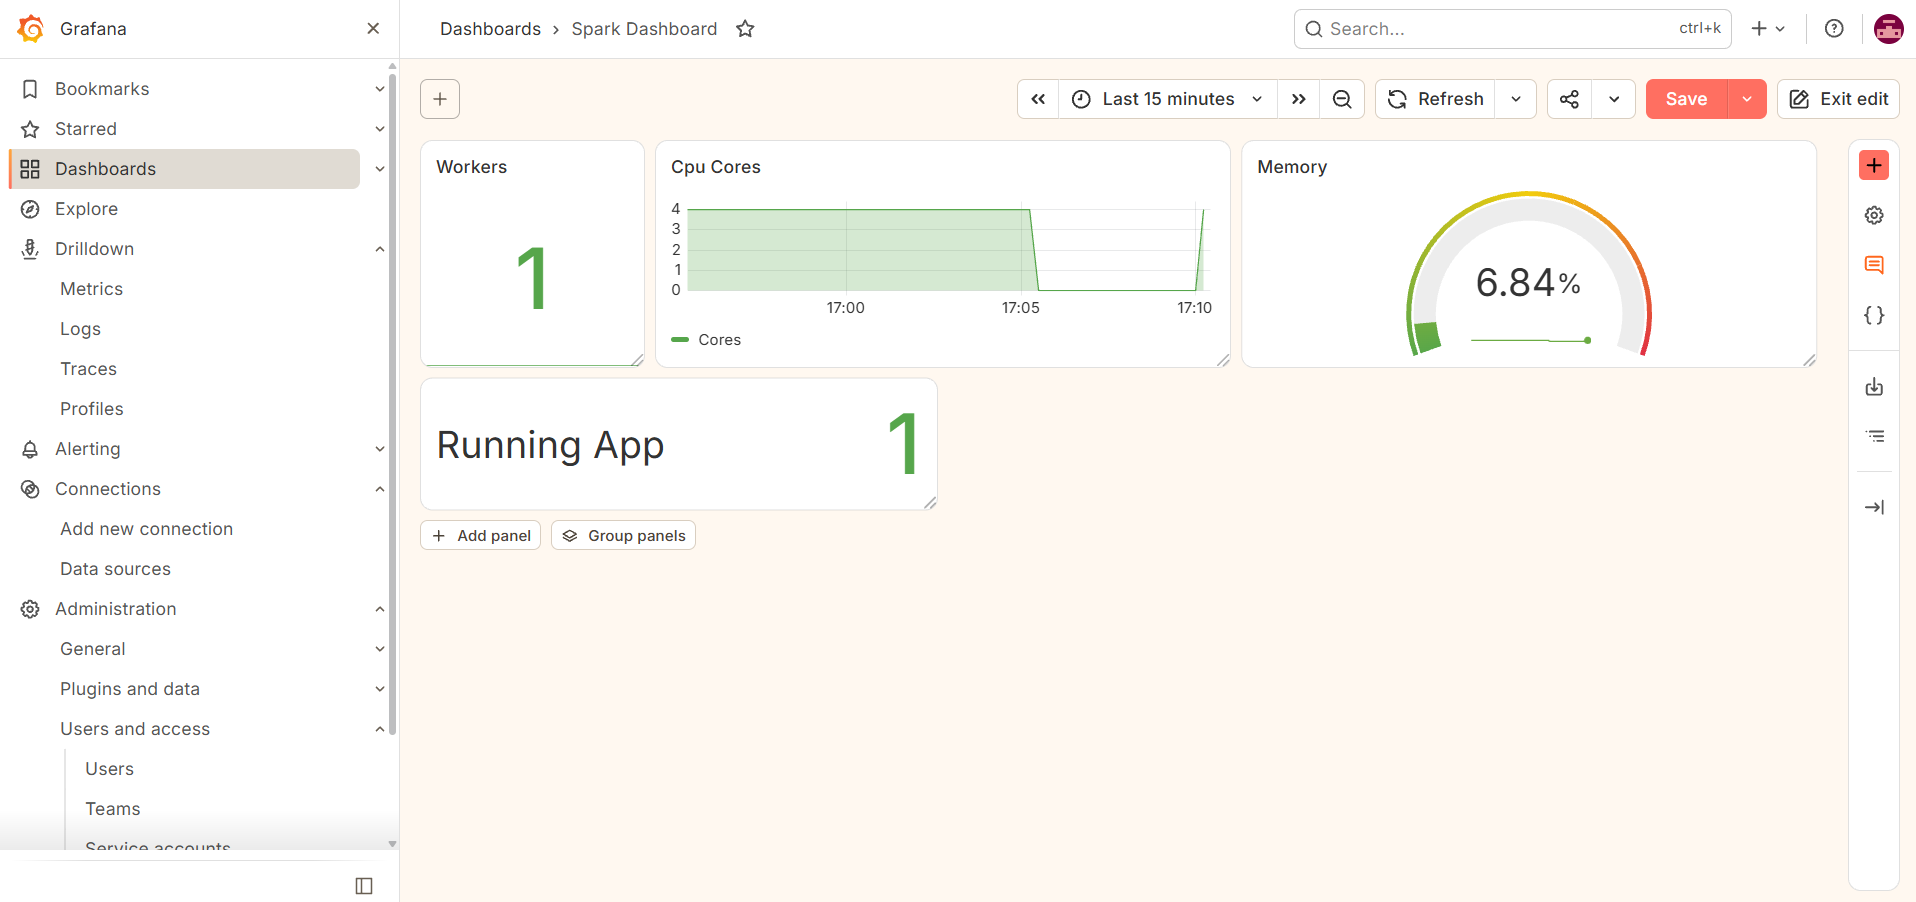
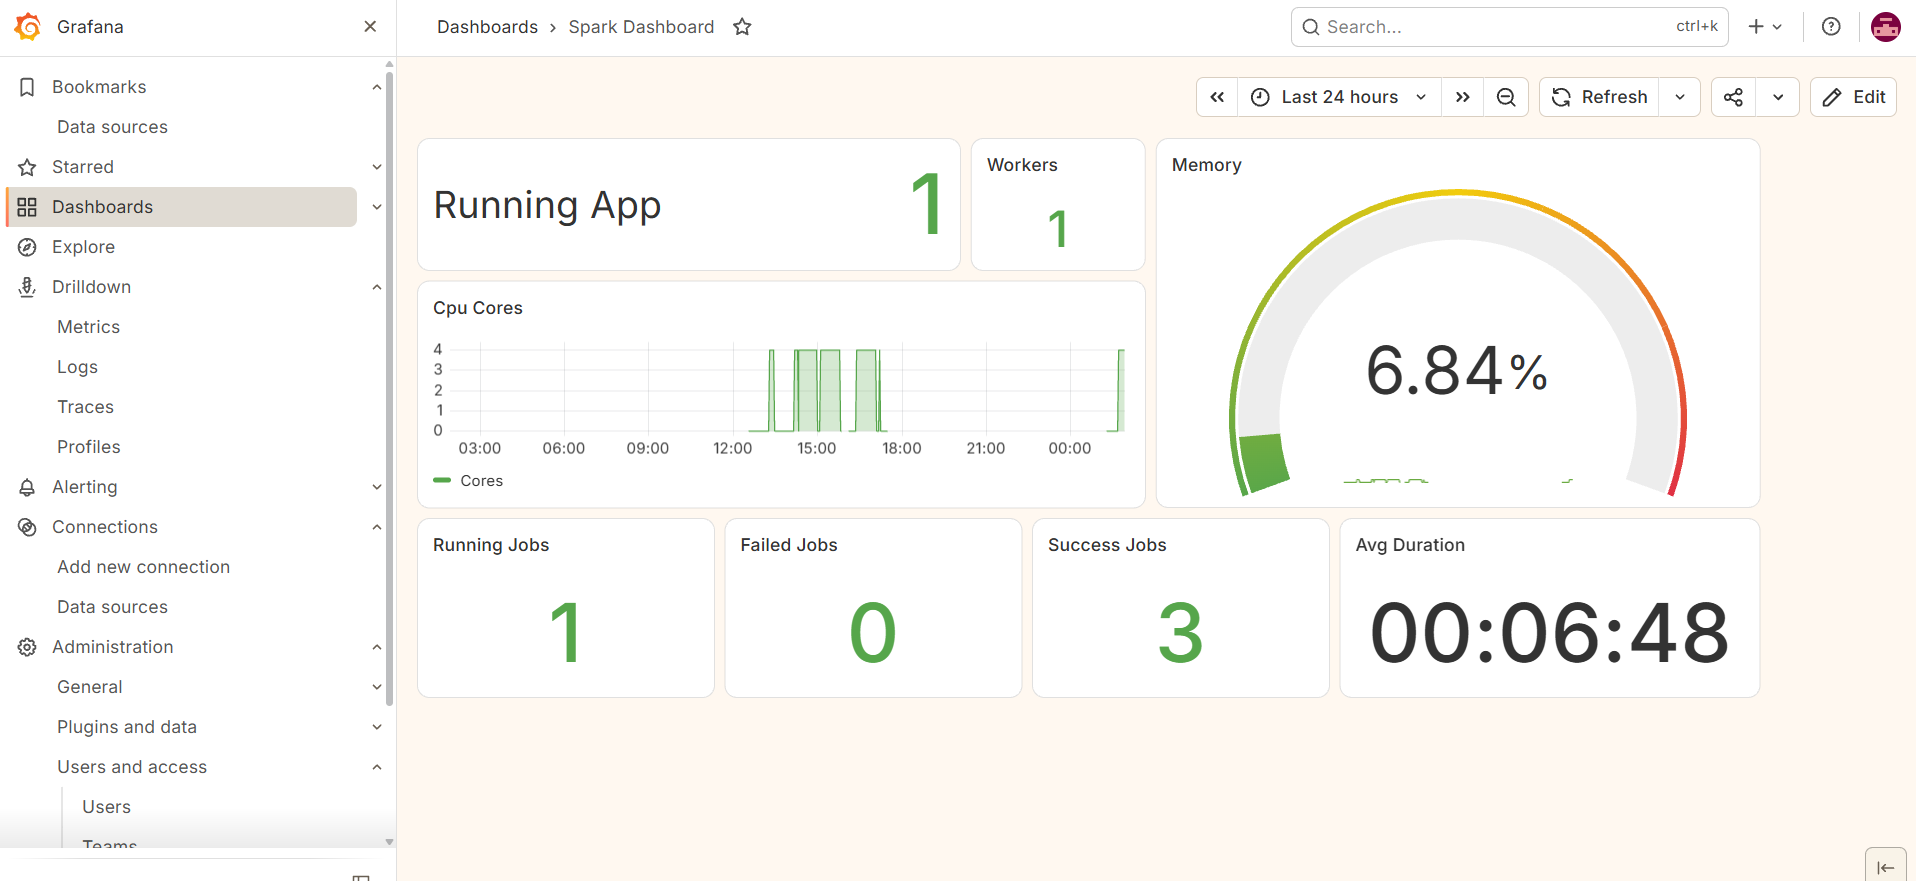
image change

diff --git a/src/psg_data.py b/src/psg_data.py
@@ -1,0 +1,106 @@
+
+from pyspark.sql import SparkSession
+import pyspark.sql.functions as F
+import uuid
+
+
+spark = SparkSession.builder.master('spark://spark-master:7077') \
+    .config('spark.jars.packages', 'org.postgresql:postgresql:42.7.4') \
+    .config("spark.jars.ivy", "/tmp/spark-ivy") \
+    .appName('PSG Load').getOrCreate()
+
+
+jdbc_url = "jdbc:postgresql://postgres:5432/psg_data"
+table_name = "source.customers"
+
+user = password = 'spark'
+
+
+def execute_query(query: str) -> int:
+    conn = None
+    stmt = None
+
+    try:
+        props = spark._sc._gateway.jvm.java.util.Properties()
+        props.setProperty("user", user)
+        props.setProperty("password", password)
+
+        driver = spark._sc._gateway.jvm.org.postgresql.Driver()
+
+        conn = driver.connect(jdbc_url, props)
+
+        stmt = conn.createStatement()
+        return stmt.executeUpdate(query)
+
+    finally:
+        if stmt is not None:
+            stmt.close()
+
+        if conn is not None:
+            conn.close()
+
+
+job_id = str(uuid.uuid4())
+
+query = f''' INSERT INTO audit.etl_audit(id, job_name, task_name, status, start_time, 
+    src_system, src_database, src_table, tgt_system, tgt_database, tgt_table, load_type, insert_dttm)
+    VALUES ('{job_id}', 'TRUNCATE_LOAD', 'CUST_LOAD', 'P', current_timestamp, 'Postgres', 'Source',
+    'customers', 'Postgres', 'Silver', 'customers', 'truncate_load', current_timestamp)'''
+
+execute_query(query)
+
+
+src_df = spark.read \
+    .format("jdbc") \
+    .option("url", jdbc_url) \
+    .option("dbtable", table_name) \
+    .option("user", "spark") \
+    .option("password", "spark") \
+    .option("driver", "org.postgresql.Driver") \
+    .load()
+
+
+src_count = src_df.count()
+
+query = f''' UPDATE audit.etl_audit SET src_count = {src_count}, update_dttm = current_timestamp WHERE "id" = '{job_id}' '''
+execute_query(query)
+
+
+deleted_count = execute_query("""DELETE FROM silver.customers WHERE 1=1""")
+
+print(f'Deleted Row Count - {deleted_count}')
+
+query = f''' UPDATE audit.etl_audit SET record_deleted = {deleted_count}, update_dttm = current_timestamp WHERE "id" = '{job_id}' '''
+execute_query(query)
+
+
+trns_df = src_df
+for schema in src_df.schema:
+    trns_df = trns_df.withColumnRenamed(schema.name, schema.name.replace(' ', '_').lower())
+
+trns_df = trns_df.withColumn('insert_dttm', F.current_timestamp())
+
+
+trns_df.write \
+    .format("jdbc") \
+    .option("url", jdbc_url) \
+    .option("driver", "org.postgresql.Driver") \
+    .option("dbtable", "silver.customers") \
+    .option("user", user) \
+    .option("password", password) \
+    .mode("append") \
+    .save()
+
+
+inserted_count = trns_df.count()
+
+print(f'inserted row count - {inserted_count}')
+
+query = f''' UPDATE audit.etl_audit SET record_inserted = {inserted_count}, status = 'C', end_time = current_timestamp, 
+    tgt_count = {inserted_count}, update_dttm = current_timestamp WHERE "id" = '{job_id}' '''
+execute_query(query)
+
+
+spark.stop()
+
+
